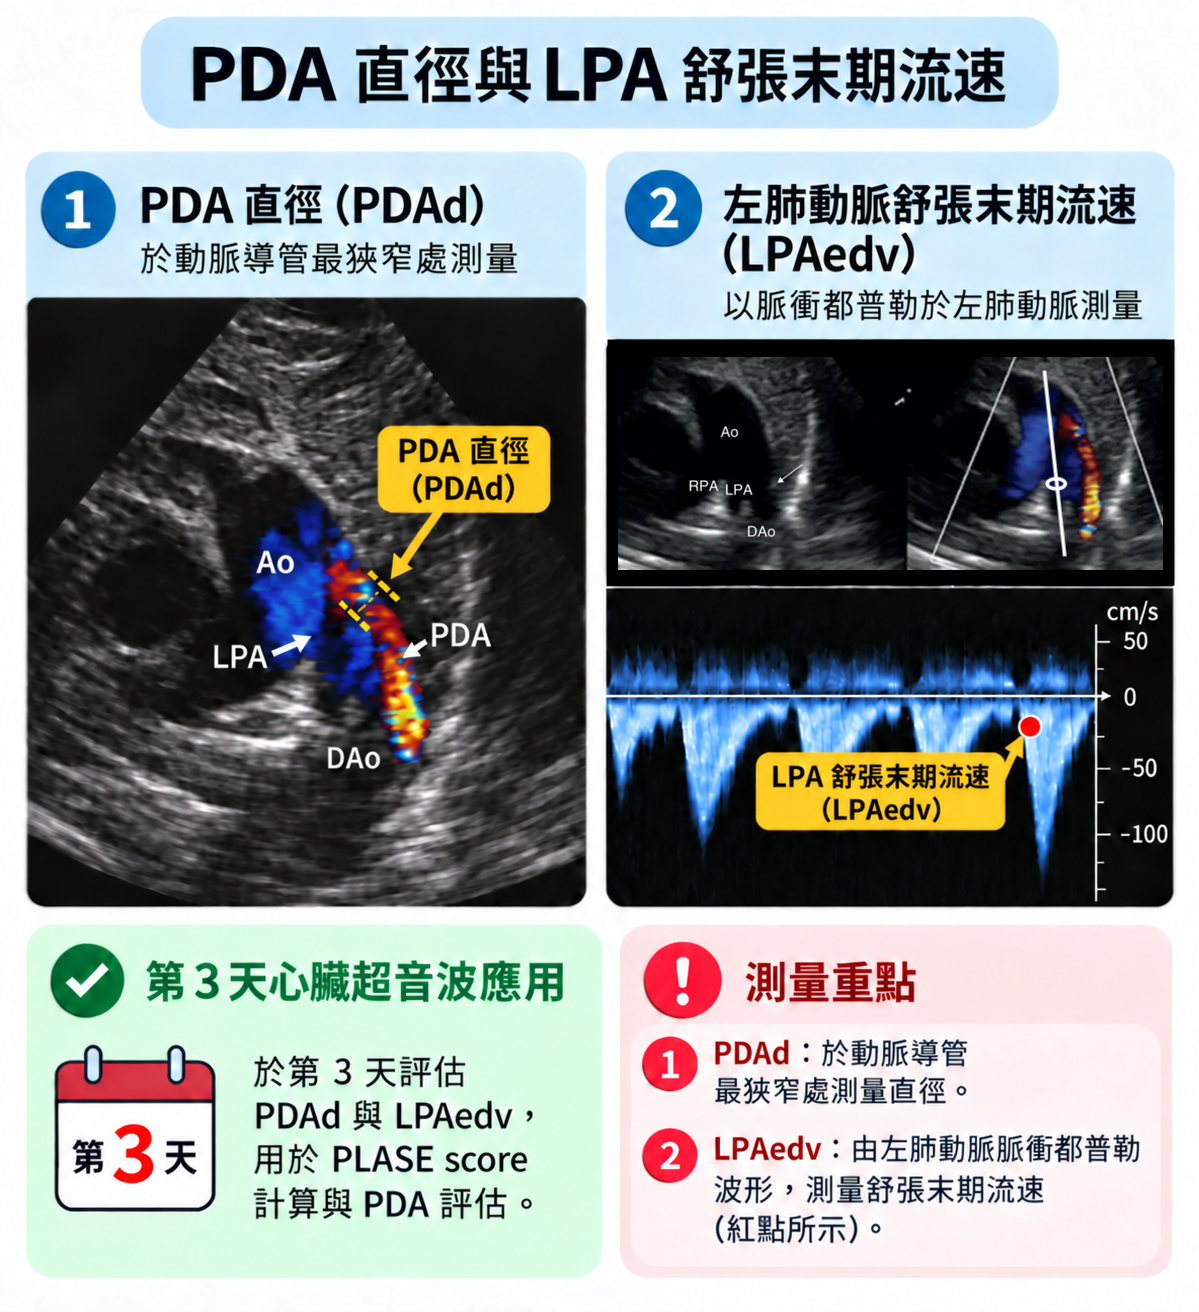
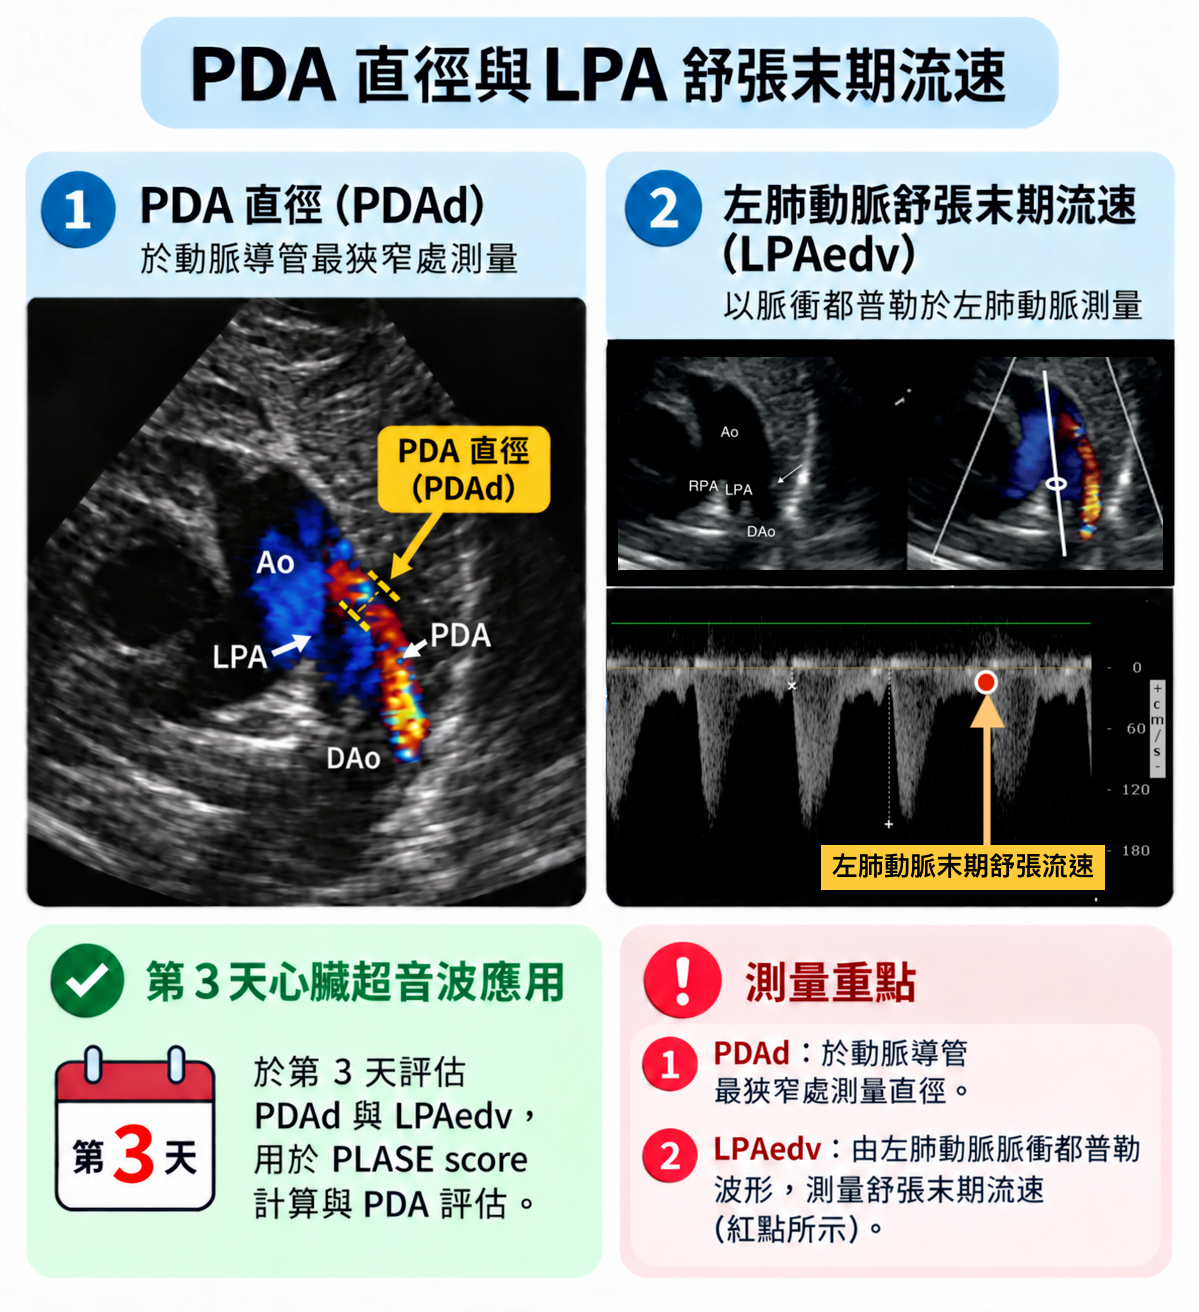
Add files via upload

Changed region(s): [[0.4937, 0.4375, 0.9875, 0.6875]]

diff --git a/index.html b/index.html
@@ -104,6 +104,12 @@
     .report-actions button{padding:11px 14px;border:0;border-radius:10px;background:#1f4e78;color:#fff;font-weight:700;cursor:pointer}
     .report-actions button.secondary{background:#e9eff7;color:#1f4e78}
     .report-status{font-size:12px;color:#64748b;margin-top:8px}
+    .rv-input{background:#f1f8f8;border-color:#b5d9d6}
+    .rv-ref-note{background:#f6fafb;border:1px solid #d6e8e9;border-radius:12px;padding:12px;font-size:12px;line-height:1.65;color:#425466;margin-top:12px}
+    .rv-bedside-note{color:#7b8798;font-size:12px;font-weight:400;line-height:1.7;margin-top:9px;overflow-wrap:anywhere}
+    .rv-bedside-note > div + div{margin-top:2px}
+    .rv-result{border:1px solid #c4dedc;border-radius:13px;background:#f4fbfa;padding:12px;margin-top:10px}
+    .rv-result .metric{margin:0}
     .muted-value{background:#eef2f7;border-radius:8px;padding:9px 11px;font-size:13px;color:#475569}
   </style>
 </head>
@@ -159,6 +165,17 @@
       </div>
       <p class="small">LVO:RVO 以兩者相除；PDA size/weight = PDAd（cm）× 10 ÷ 體重（kg）。IOWA 滿分 14 分。IVRT 門檻：0.030／0.050 s；Pulmonary vein D 門檻：30／50 cm/s。Mitral E velocity、IVRT、Pulmonary vein D velocity 皆可點選欄位旁 ⓘ 查看教學圖。</p>
     </div>
+    <div class="card rv-input">
+      <h2 class="section-title">Right Ventricular Function｜右心室功能</h2>
+      <p class="small">TAPSE 及 RV Length 均以 cm 輸入；計算 cTAPSE 與年齡相符的 TAPSE Z-score。出生後日齡為參考值選擇的必要條件。</p>
+      <div class="grid">
+        <div class="field"><label>TAPSE <button class="guide-btn" type="button" aria-label="查看TAPSE測量教學" onclick="openGuide(9)">ⓘ</button></label><div class="input-wrap"><input id="tapse" type="number" min="0" step="0.01" inputmode="decimal"><span class="unit">cm</span></div></div>
+        <div class="field"><label>RV Length <button class="guide-btn" type="button" aria-label="查看RV Length測量教學" onclick="openGuide(9)">ⓘ</button></label><div class="input-wrap"><input id="rvLength" type="number" min="0" step="0.01" inputmode="decimal"><span class="unit">cm</span></div></div>
+        <div class="field"><label>Postnatal age (PNA)</label><div class="input-wrap"><input id="pnaDays" type="number" min="0" step="0.1" inputmode="decimal"><span class="unit">days</span></div><div class="small">出生後 48 小時 = 2.0 天，供參考模型自動切換。</div></div>
+        <div class="field"><label>Birth GA（共用）</label><div class="muted-value" id="rv-ga-reference">—（請輸入 PLASE 區塊的出生胎齡）</div></div>
+      </div>
+      <div class="rv-ref-note"><strong>Reference applicability:</strong> Koestenberger 2011 (GA 26–41 週，出生後 ≤48 小時)；Koestenberger 2009 (年齡分組、健康兒童；出生後 >48 小時且足月出生才顯示估算 Z-score)。超出適用範圍將顯示未提供經驗證之 Z-score。</div>
+    </div>
     <button class="reset" onclick="resetAll()">清除所有輸入</button>
   </section>
 
@@ -193,6 +210,24 @@
       <div id="iowa-breakdown"></div>
       <div id="iowa-interpretation" class="recommend">請輸入完整七項參數後判讀是否達到 ≥6 分。</div>
     </div>
+    <div class="card">
+      <h2 class="section-title">Right Ventricular Function｜TAPSE</h2>
+      <div class="result-grid">
+        <div class="domain flow"><h3>RV systolic function</h3>
+          <div class="metric"><div><div class="name">TAPSE</div></div><div class="val" id="r-tapse">—</div></div>
+          <div class="metric"><div><div class="name">cTAPSE</div><div class="sub">TAPSE / RV Length × 100%</div></div><div class="val" id="r-ctapse">—</div></div>
+          <div class="metric"><div><div class="name">TAPSE Z-score</div></div><div class="val" id="r-tapse-z">—</div></div>
+        </div>
+      </div>
+      <div id="r-tapse-reference" class="rv-ref-note">請輸入 TAPSE、出生胎齡與出生後日齡以選擇適合的參考資料。</div>
+      <div class="rv-ref-note" aria-label="cTAPSE 研究參考值">
+        <strong>cTAPSE｜研究參考值（非診斷門檻）</strong>
+        <div class="metric"><div><div class="name">出生後前 3 天｜極低出生體重兒</div><div class="sub">原始研究尚待核實；數值來自先前提供的書籍摘要</div></div><div class="val">25 ± 4%</div></div>
+        <div class="metric"><div><div class="name">出生後第 14 天｜無 PDA 早產兒組</div><div class="sub">Toyoshima et al., Pediatric Research (2024), Table 3</div></div><div class="val">38.0 ± 5.5%</div></div>
+        <p class="small" id="ctapse-reference-context">輸入 PNA（出生後日齡）可看到研究時間點提示。</p>
+        <p class="small">上述為不同研究族群的平均值 ± SD，不是所有新生兒的正常範圍；不據此計算 cTAPSE Z-score 或自動判斷 RV dysfunction。</p>
+      </div>
+    </div>
   </section>
 
   <section id="page-patterns" class="page">
@@ -201,6 +236,12 @@
       <div id="pda-bedside-indicators" class="recommend">等待輸入 PDA 評估相關數據。</div>
       <div id="pda-bedside-score" class="recommend">IOWA Score 尚未完成。</div>
       <div class="small">符合任一項：LPAedv &gt;15 cm/s、LA/Ao &gt;1.3、LAVI &gt;0.8 mL/kg、LVDd &gt;12 mm，或大動脈／周邊血流 Reverse → 提示考慮 PDA 治療。IOWA ≥6 → 建議評估治療。</div>
+    </div>
+    <div class="card">
+      <h2 class="section-title">Right Ventricular Function｜參考值</h2>
+      <div class="recommend"><div id="rv-bedside-values">尚未輸入 TAPSE。</div><div id="rv-bedside-note" class="rv-bedside-note">請輸入 TAPSE 與參考年齡資料。</div></div>
+      <div class="rv-ref-note" id="ctapse-bedside-reference">cTAPSE 研究參考：出生後前 3 天 VLBW 25 ± 4%（原始來源待確認）；第 14 天無 PDA 早產兒 38.0 ± 5.5%（Toyoshima 2024）。僅供比較。</div>
+      <p class="small">TAPSE 代表 RV 縱向收縮指標；Z-score 與 cTAPSE 不代表 RVEF，且不作為獨立的肺高壓診斷或治療依據。</p>
     </div>
     <div class="card">
       <h2 class="section-title">B. 循環管理建議</h2>
@@ -272,7 +313,8 @@ const guideData=[
  ['IVRT 等容舒張時間測量教學','measurement_guides/06_ivrt.png'],
  ['MV E wave 二尖瓣 E 波測量教學','measurement_guides/07_mv_e_wave.png'],
  ['Pulmonary vein D velocity 肺靜脈 D 波速度測量教學','measurement_guides/08_pulmonary_vein_d.png'],
- ['心臟超音波測量順序｜Workflow','measurement_guides/00_echo_workflow.png']
+ ['心臟超音波測量順序｜Workflow','measurement_guides/00_echo_workflow.png'],
+ ['TAPSE（三尖瓣環收縮期位移）測量教學','measurement_guides/09_tapse.png']
 ];
 function openGuide(index){
   const [title,src]=guideData[index];
@@ -296,13 +338,54 @@ function toggleWorkflowZoom(){
 }
 function goPage(name){document.querySelectorAll('.page').forEach(p=>p.classList.toggle('active',p.id==='page-'+name));document.querySelectorAll('.tabs button').forEach(b=>b.classList.toggle('active',b.dataset.page===(name==='guides'?'input':name)));window.scrollTo({top:0,behavior:'smooth'})}
 function openGallery(){goPage('guides')}
-$('guide-gallery').innerHTML=[8,0,1,2,3,4,5,6,7].map(i=>{const [title,src]=guideData[i];return `<button type="button" class="guide-tile" onclick="openGuide(${i})"><img loading="lazy" src="${src}" alt="${title}"><span>${title}</span></button>`}).join('');
+$('guide-gallery').innerHTML=[8,9,0,1,2,3,4,5,6,7].map(i=>{const [title,src]=guideData[i];return `<button type="button" class="guide-tile" onclick="openGuide(${i})"><img loading="lazy" src="${src}" alt="${title}"><span>${title}</span></button>`}).join('');
 
-const ids=['weight','hr','laArea','laLen','laaoInput','lvdd','lvds','hes','map','rr','lvet','svcMax','svcMin','svcVti','ga','pdad','lpaedv','ntp','mitralE','ivrt','pvD','lvo','rvo','flowDirection','lvefManual','pdaShunt','pdaPattern'];
+const ids=['weight','hr','laArea','laLen','laaoInput','lvdd','lvds','hes','map','rr','lvet','svcMax','svcMin','svcVti','ga','pdad','lpaedv','ntp','mitralE','ivrt','pvD','lvo','rvo','flowDirection','lvefManual','pdaShunt','pdaPattern','tapse','rvLength','pnaDays'];
 const num=id=>{const raw=$(id).value.trim(); if(raw==='')return null; const v=Number(raw); return Number.isFinite(v)?v:null};
 const fmt=(v,d=2,u='')=>Number.isFinite(v)?v.toFixed(d)+(u?' '+u:''):'—';
 function logistic(x){return 1/(1+Math.exp(-x))}
 
+// TAPSE reference mode. 2011 cohort measured within 48 h of birth;
+// 2009 values are age-group observations, NOT a continuous age regression.
+function calculateTapseReference(tapse,rvLength,ga,pnaDays){
+  const tapseValid=Number.isFinite(tapse)&&tapse>=0;
+  const rvValid=Number.isFinite(rvLength)&&rvLength>0;
+  const ctapse=tapseValid&&rvValid?tapse/rvLength*100:NaN;
+  const base={tapse:tapseValid?tapse:NaN,rvLength:rvValid?rvLength:NaN,ctapse,
+    mean:NaN,z:NaN,lower:NaN,upper:NaN,source:'none',label:'',note:''};
+  if(!tapseValid){base.note='尚未輸入 TAPSE，無法計算參考 Z-score。';return base;}
+  if(!Number.isFinite(ga)||ga<=0||!Number.isFinite(pnaDays)||pnaDays<0){
+    base.note='請輸入出生胎齡及出生後日齡，才能選擇適合的 TAPSE 參考資料。';return base;
+  }
+  if(pnaDays<=2){
+    if(ga<26||ga>41){base.note='2011 新生兒胎齡模型適用範圍為約 26–41 週；目前不提供 Z-score。';return base;}
+    base.mean=-0.471+0.036*ga;
+    base.lower=base.mean-0.13;base.upper=base.mean+0.13;
+    base.z=(tapse-base.mean)/0.065;
+    base.source='2011';base.label='Koestenberger 2011 · GA-based';
+    base.note='Koestenberger 2011：出生後 ≤48 小時之新生兒胎齡模型；±2 SD 為回歸殘差 SD 推算。僅供參考，不單獨診斷 RV dysfunction。';
+    return base;
+  }
+  // 2009 cohort spans healthy children, and neonatal subgroup lacks GA-stratified
+  // preterm validation. Do not apply group Z-scores to preterm NICU infants.
+  if(ga<37){base.source='2009-inapplicable';base.label='Koestenberger 2009 · 參考限制';base.note='早產兒出生後 >48 小時：2009 健康兒童年齡分組未驗證此族群；不計算 TAPSE Z-score。可使用 TAPSE/cTAPSE 追蹤並綜合其他 RV 指標。';return base;}
+  // Group boundary ages approximate months in days; categorical comparisons only.
+  const groups=[
+    {max:30,mean:.91,low:.68,high:1.15,age:'0–30 days'},
+    {max:90,mean:1.14,low:.85,high:1.42,age:'1–3 months'},
+    {max:180,mean:1.31,low:1.01,high:1.65,age:'4–6 months'},
+    {max:365,mean:1.44,low:1.13,high:1.77,age:'7–12 months'}
+  ];
+  const grp=groups.find(g=>pnaDays<=g.max);
+  if(!grp){base.note='超過 12 個月：此 NICU 版本未載入較大年齡組 TAPSE 參考表，不計算 Z-score。';return base;}
+  base.mean=grp.mean;base.lower=grp.low;base.upper=grp.high;
+  // Each bounds are reported at ±2 SD; estimate group SD from full interval.
+  const sd=(grp.high-grp.low)/4;
+  base.z=(tapse-grp.mean)/sd;
+  base.source='2009';base.label='Koestenberger 2009 · grouped approximation ('+grp.age+')';
+  base.note='Koestenberger 2009：健康兒童 '+grp.age+' 組平均值與 ±2 SD。Z-score 以表格上下界估算組內 SD，非連續年齡或 BSA 模型；月份界線以 30/90/180/365 天近似。未經早產兒或重症 NICU 族群驗證。';
+  return base;
+}
 function scoreByValue(value, first, second, descending=false){
   if(!Number.isFinite(value)||value<0)return null;
   return descending ? (value>first?0:value>=second?1:2) : (value<first?0:value<=second?1:2);
@@ -409,6 +492,7 @@ function makeReport(c){
   const hemoGroups=[
     ['Preload',reportPick(reportLine('LA/Ao',c.laao),reportLine('LAV',c.lav,3,'mL'),reportLine('LAVI',c.lavi,2,'mL/kg'),reportLine('LVDd',c.lvdd,2,'cm'),reportLine('Expected LVDd',c.expLvdd,2,'cm'))],
     ['Contractility',reportPick(reportLine('LVFS',c.lvfs,1,'%'),reportLine('LVEF',c.lvef,1,'%'),reportLine('mVcfc',c.mvcfc,2,'circ/s'))],
+    ['Right ventricular function',reportPick(reportLine('TAPSE',c.tapse,2,'cm'),reportLine('RV Length',c.rvLength,2,'cm'),reportLine('cTAPSE',c.ctapse,1,'%'),Number.isFinite(c.tapseZ)?`TAPSE Z-score (${c.tapseRefLabel}): ${c.tapseZ.toFixed(2)}`:null)],
     ['Afterload',reportPick(reportLine('ESWS',c.esws,1,'g/cm²'))],
     ['Systemic flow',reportPick(reportLine('SVC diameter (mean)',c.svcd,2,'cm'),reportLine('SVC flow',c.svcflow,0,'mL/kg/min'),reportLine('LVO',lvo,1,'mL/kg/min'),reportLine('RVO',rvo,1,'mL/kg/min'),reportLine('LVO/RVO ratio',ratio),direction?`Aorta/peripheral flow: ${direction==='forward'?'Forward':'Reverse'}`:null)]
   ];
@@ -497,8 +581,39 @@ function calc(){
   const v1=ga!=null&&pdadMm!=null&&lpa!=null&&Number.isFinite(laao)?logistic(10.7091+1.1410*pdadMm+0.0360*lpa+0.6356*laao-0.5652*ga):NaN;
   const ntm=ga!=null&&ntp&&ntp>0?logistic(10.9526+1.2185*Math.log10(ntp)-0.6740*ga):NaN;
   setRisk('risk-v2',v2); setRisk('risk-v1',v1); setRisk('risk-ntp',ntm);
+  const tapse=num('tapse'),rvLength=num('rvLength'),pnaDays=num('pnaDays');
+  const rvAssessment=calculateTapseReference(tapse,rvLength,ga,pnaDays);
+  $('rv-ga-reference').textContent=Number.isFinite(ga)?fmt(ga,1,'weeks（出生胎齡）'):'—（請輸入 PLASE 區塊的出生胎齡）';
+  $('r-tapse').textContent=fmt(rvAssessment.tapse,2,'cm');
+  $('r-ctapse').textContent=fmt(rvAssessment.ctapse,1,'%');
+  $('r-tapse-z').textContent=Number.isFinite(rvAssessment.z)?(rvAssessment.z>=0?'+':'')+rvAssessment.z.toFixed(2):'—';
+  $('r-tapse-reference').textContent=(rvAssessment.label?rvAssessment.label+'｜':'')+rvAssessment.note;
+  const bedsideTapse=Number.isFinite(rvAssessment.tapse)?`TAPSE ${fmt(rvAssessment.tapse,2,'cm')}`:'尚未輸入 TAPSE';
+  const bedsideCtapse=Number.isFinite(rvAssessment.ctapse)?`；cTAPSE ${fmt(rvAssessment.ctapse,1,'%')}`:'';
+  const bedsideZ=Number.isFinite(rvAssessment.z)?`；TAPSE Z-score ${fmt(rvAssessment.z,2)}（${rvAssessment.label}）`:'';
+  $('rv-bedside-values').textContent=bedsideTapse+bedsideCtapse+bedsideZ+'。';
+  // Keep clinical reference caveats on distinct, muted lines for legibility.
+  const bedsideNote=$('rv-bedside-note');
+  bedsideNote.replaceChildren();
+  const noteLines=rvAssessment.source==='2011'
+    ? ['Koestenberger 2011：出生後 ≤48 小時之新生兒胎齡模型；',
+       '±2 SD 為回歸殘差 SD 推算。',
+       '僅供參考，不單獨診斷 RV dysfunction。']
+    : [rvAssessment.note];
+  noteLines.forEach(line=>{const div=document.createElement('div');div.textContent=line;bedsideNote.appendChild(div);});
+  // These are descriptive research-group averages; do not derive Z-scores or diagnostic thresholds.
+  const ctContext=!Number.isFinite(pnaDays)||pnaDays<0
+    ?'尚未輸入出生後日齡；兩組研究參考皆列出，但不指定適用組。'
+    :pnaDays>=0&&pnaDays<3
+      ?'目前為出生後前 3 天；25 ± 4% 研究時間點相近，但仍須符合原研究族群（VLBW）；原始出處待核。'
+      :pnaDays>=14&&pnaDays<15
+        ?'目前為出生後第 14 天；38.0 ± 5.5% 組為無 PDA 早產兒，若病人有 PDA 或臨床狀態不同，不能直接視為正常值。'
+        :'目前日齡不完全對應上述研究時間點；兩組均僅供背景比較。';
+  $('ctapse-reference-context').textContent=ctContext;
+  $('ctapse-bedside-reference').textContent='cTAPSE 研究參考：出生後前 3 天 VLBW 25 ± 4%（原始來源待核）；出生後第 14 天無 PDA 早產兒 38.0 ± 5.5%（Toyoshima 2024）。'+ctContext+' 不作診斷或治療門檻。';
+
   updateIowa({kg,laao,pdad,lpa,lavi,lvdd,mvcfc,esws});
-  updateReport({kg,laao,pdad,lpa,lavi,lvdd,lav,lvfs,lvef,mvcfc,esws,svcd,svcflow,expLvdd,hr,plaseV2:v2,plaseNtpGa:ntm});
+  updateReport({kg,laao,pdad,lpa,lavi,lvdd,lav,lvfs,lvef,mvcfc,esws,svcd,svcflow,expLvdd,hr,plaseV2:v2,plaseNtpGa:ntm,tapse:rvAssessment.tapse,rvLength:rvAssessment.rvLength,ctapse:rvAssessment.ctapse,tapseZ:rvAssessment.z,tapseRefLabel:rvAssessment.label});
   ids.forEach(id=>localStorage.setItem('neo_'+id,$(id).value));
 }
 function setPattern(id,yes){const e=$(id); if(yes){e.textContent='YES';e.className='badge yes'}else{e.textContent='—';e.className='badge ok'}}

diff --git a/README.md b/README.md
@@ -75,3 +75,38 @@ PDA shunt direction 與 flow pattern 的選單已統一採用一般 measurement 
 ## 本次更新
 - 已將「左房面積與長徑（A4C）」教學圖替換為使用者最新提供版本（measurement_guides/01_la_a4c.png）。
 - 其他教學圖、Workflow、Report、Bedside、IOWA、PLASE 與分頁設定均維持不變。
+
+
+## TAPSE / cTAPSE / Z-score (2026-10-14)
+- 輸入 TAPSE、RV Length（均 cm）及 PNA（天），原本 GA 欄位共用為出生胎齡。
+- 出生後 ≤2 天且出生 GA 26–41 週：Koestenberger et al. Neonatology 2011 模型：TAPSE_pred (cm) = -0.471 + 0.036 × GA（週）；Z = (TAPSE - TAPSE_pred)/0.065。
+- 出生後 >2 天且出生 GA ≥37 週：Koestenberger et al. JASE 2009 年齡分組：0–30 天、1–3 月、4–6 月、7–12 月。以文獻 Table 1 平均值與 ±2 SD 推估 SD=(upper−lower)/4，僅估算組內 Z，不代表連續年齡模型。
+- 早產兒出生後 >2 天及其他超出研究族群者：不輸出 Z-score，不將 2009 健康兒童表格當作已驗證的 NICU 早產兒標準。
+- cTAPSE = TAPSE(cm)/RV Length(cm)×100%，此數值不使用一般 TAPSE Z-score 評估。
+- Results、Bedside 和 Hemodynamic Report 同步顯示可計算項目；舊 PDA / PLASE / IOWA 演算法保持原樣。
+- 參考論文：Koestenberger et al. Neonatology 2011;100:85–92. DOI:10.1159/000322006；Koestenberger et al. J Am Soc Echocardiogr 2009;22:715–719. DOI:10.1016/j.echo.2009.03.026。
+- 本工具用於臨床決策輔助，TAPSE 非右心室射出分率的直接替代值。
+
+
+## cTAPSE 研究參考值
+- Results 和 Bedside 同時列出：出生後前 3 天極低出生體重兒 cTAPSE 25 ± 4%（先前提供之書籍摘要，原始研究尚待核實）。
+- 出生後第 14 天無 PDA 早產兒 cTAPSE 38.0 ± 5.5%（Toyoshima et al., Pediatric Research 2024, Table 3）。
+- 依 PNA 顯示研究時間點的適用性提示，但不因此直接認定個別病人符合研究收案條件。
+- 不計算 cTAPSE Z-score，不將上述 SD 值作為正常／異常或治療門檻；TAPSE 2011/2009 的 Z-score 計算維持不變。
+
+
+## 本次版面調整
+- Right Ventricular Function 輸入區塊移至輸入分頁最後，置於「清除所有輸入」按鈕之前。
+- Results 的右心室區塊只列 TAPSE、cTAPSE、TAPSE Z-score 三項，保留原有參考資訊。
+- Bedside 的 Koestenberger 2011 參考說明改為三行淺灰色小字，與數值分開顯示。
+- 所有臨床計算式、Report 與測量圖保持不變。
+
+
+## Results 排序調整
+Results 分頁依序顯示 Hemodynamic Results、IOWA Score、Right Ventricular Function｜TAPSE（最下方），未修改計算邏輯。
+
+
+## 本次更新
+- 新增「TAPSE（三尖瓣環收縮期位移）測量教學」圖片，並連結到 TAPSE 與 RV Length 欄位旁的 ⓘ 按鈕。
+- 教學圖庫新增 TAPSE 教學圖，圖庫順序為 Workflow、TAPSE、其他測量教學圖。
+- 已將 PDA / LPA 教學圖（measurement_guides/05_pda_lpa.png）替換為最新版本。
